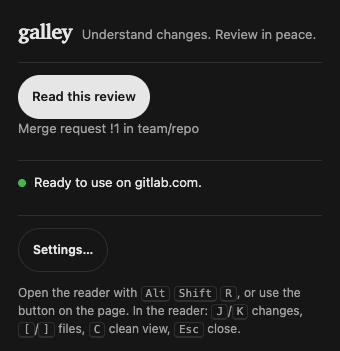
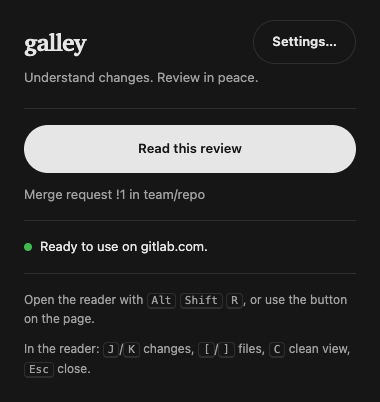
fix(popup): give toolbar actions and text more room

diff --git a/src/popup/popup.css b/src/popup/popup.css
@@ -37,6 +37,84 @@ body {
     sans-serif;
 }
 
+.toolbar-popup {
+  width: 380px;
+  padding: 20px 24px 24px;
+  overflow-wrap: anywhere;
+}
+
+.toolbar-popup header {
+  flex-direction: column;
+  align-items: flex-start;
+  gap: 4px;
+  margin-bottom: 20px;
+}
+
+.toolbar-popup .brand {
+  font-size: 24px;
+}
+
+.toolbar-popup .popup-heading {
+  display: flex;
+  align-items: center;
+  justify-content: space-between;
+  gap: 16px;
+  width: 100%;
+}
+
+.toolbar-popup section {
+  padding: 16px 0;
+}
+
+.toolbar-popup button,
+.toolbar-popup input {
+  min-height: 44px;
+}
+
+.toolbar-popup button {
+  height: auto;
+  padding: 10px 18px;
+}
+
+.toolbar-popup #reader:not([hidden]) {
+  display: flex;
+  flex-direction: column;
+  gap: 12px;
+}
+
+.toolbar-popup #reader button {
+  min-height: 48px;
+}
+
+.toolbar-popup #reader p,
+.toolbar-popup #site > :last-child,
+.toolbar-popup footer p:last-child {
+  margin-bottom: 0;
+}
+
+.toolbar-popup #token h2 {
+  margin-bottom: 12px;
+}
+
+.toolbar-popup #token h2 .muted {
+  display: block;
+  margin-top: 4px;
+  font-weight: 400;
+}
+
+.toolbar-popup #token-site {
+  margin: 12px 0;
+}
+
+.toolbar-popup footer {
+  padding-top: 16px;
+  line-height: 1.65;
+}
+
+.toolbar-popup #settings {
+  margin: 0;
+}
+
 header {
   display: flex;
   align-items: baseline;

diff --git a/src/popup/popup.html b/src/popup/popup.html
@@ -6,9 +6,12 @@
     <title>Galley</title>
     <link rel="stylesheet" href="popup.css" />
   </head>
-  <body>
+  <body class="toolbar-popup">
     <header>
-      <span class="brand">galley</span>
+      <div class="popup-heading">
+        <span class="brand">galley</span>
+        <button type="button" id="settings" class="secondary">Settings…</button>
+      </div>
       <span class="muted">Understand changes. Review in peace.</span>
     </header>
 
@@ -31,9 +34,8 @@
     </section>
 
     <footer class="muted">
-      <button type="button" id="settings" class="secondary">Settings…</button>
-      Open the reader with <kbd>Alt</kbd> <kbd>Shift</kbd> <kbd>R</kbd>, or use the button on the page. In the reader: <kbd>J</kbd>/<kbd>K</kbd> changes,
-      <kbd>[</kbd>/<kbd>]</kbd> files, <kbd>C</kbd> clean view, <kbd>Esc</kbd> close.
+      <p>Open the reader with <kbd>Alt</kbd> <kbd>Shift</kbd> <kbd>R</kbd>, or use the button on the page.</p>
+      <p>In the reader: <kbd>J</kbd>/<kbd>K</kbd> changes, <kbd>[</kbd>/<kbd>]</kbd> files, <kbd>C</kbd> clean view, <kbd>Esc</kbd> close.</p>
     </footer>
     <script src="popup.js"></script>
   </body>

diff --git a/docs/design/ui-map.md b/docs/design/ui-map.md
@@ -37,7 +37,7 @@ Below 1,280 pixels the contents rail disappears and cards sit under the paragrap
 | Surface | What the reviewer sees | Code | States and notes | Tested in |
 | --- | --- | --- | --- | --- |
 | Launcher | **Read** button with a count, bottom right of a pull or merge request | `src/ui/launcher.ts`, `#galley-launcher` | Count of documents, or of code files when there are no documents; **!** in red when loading failed (click retries); **×** hides it for this page; orange **DEV** tag in the development build | `launcher.test.ts`, `launcher.dev.test.ts` |
-| Toolbar popup | Galley's icon in the browser toolbar | `src/popup/popup.html`, `popup.ts`, `popup.css` | **Read this review** or **Read docs** first, with the page's name and no file-list request; **Enable on <site>** for self-hosted GitLab or GitHub Enterprise; **GitHub token** form on GitHub sites (**Save token**, status line); **Settings…** and key hints in the footer | `popup.test.ts`, `popup.dev.test.ts`, `e2e/opening.mjs` |
+| Toolbar popup | Galley's icon in the browser toolbar | `src/popup/popup.html`, `popup.ts`, `popup.css` | **Read this review** or **Read docs** first, with the page's name and no file-list request; **Enable on <site>** for self-hosted GitLab or GitHub Enterprise; **GitHub token** form on GitHub sites (**Save token**, status line); **Settings…** beside the wordmark, key hints in the footer | `popup.test.ts`, `popup.dev.test.ts`, `e2e/opening.mjs` |
 | Extension settings | **Galley settings**, **Opening the reader**, **Read button on the page** | `src/options/`, `options_ui` in the manifest | Page buttons start on; off means no eager file-list request, while the toolbar and shortcut remain available; read/write failures explain what was not saved | `options.test.ts`, `settings.test.ts`, `e2e/opening.mjs` |
 | Extension shortcut | **Read this page in Galley** | `src/manifest.json`, `src/background/worker.ts`, `src/content/main.ts` | Suggested <kbd>Alt</kbd> <kbd>Shift</kbd> <kbd>R</kbd>, configurable in the browser; opens the current review or repository reader, or focuses an already open reader without replacing drafts | `worker.test.ts`, `main.test.ts` |
 

diff --git a/docs/design/foundations.md b/docs/design/foundations.md
@@ -177,5 +177,5 @@ Icons are inline SVG strings in `src/ui/icons.ts`: `settings`, `close`, `plus`, 
 ## Other surfaces
 
 - **Launcher** (`src/ui/launcher.ts`): its own shadow root and inline styles; a near-black pill (near-white in dark) at the bottom right, 44 pixels high, with the document count; red count on error.
-- **Popup** (`src/popup/`): its own small token set (`--bg`, `--fg`, `--muted`, `--rule`, `--soft`, `--accent`) following the system appearance, 340 pixels wide, system font.
+- **Popup** (`src/popup/`): its own small token set (`--bg`, `--fg`, `--muted`, `--rule`, `--soft`, `--accent`) following the system appearance, 380 pixels wide with 24-pixel side padding, system font. The full-width Read action has 12 pixels of space before the page label; section padding is 16 pixels. Popup spacing is scoped separately from the extension settings page.
 - **Website** (`site/`): Newsreader headlines and DM Sans text, self-hosted; see [site/README.md](../../site/README.md).
